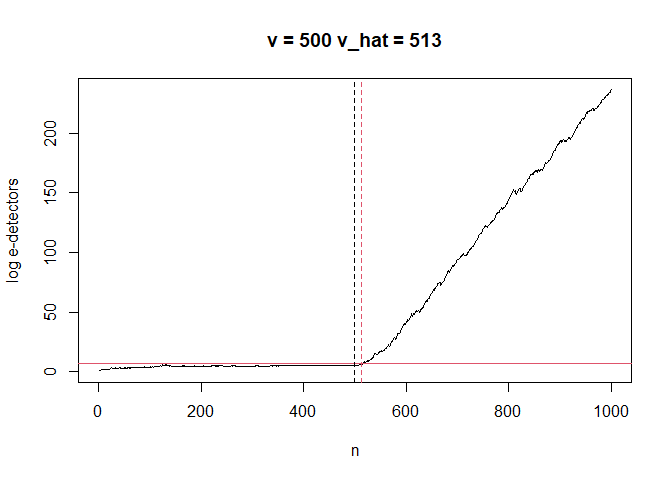
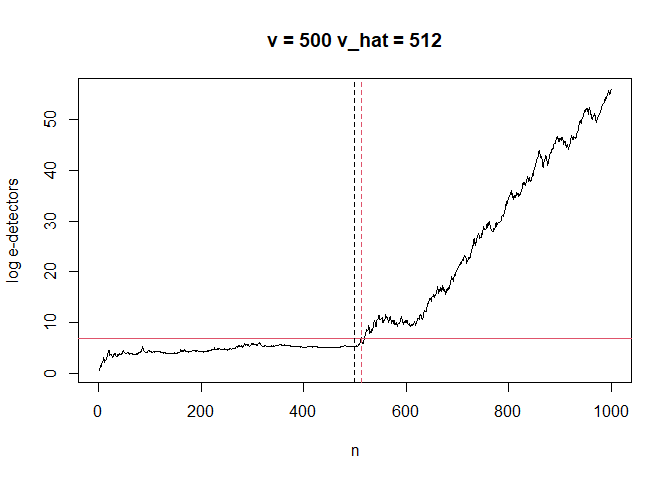
Update Readme example.

diff --git a/README.md b/README.md
@@ -26,8 +26,8 @@ devtools::install_github("shinjaehyeok/EDCP")
 Suppose we have a stream of observations
 *X*<sub>1</sub>, *X*<sub>2</sub>, … ∈ \[0,1\]. Before an unknown
 change-point *ν*, each pre-change observation has mean less than or
-equal to 0.2. But after the change-point *ν*, each post-change
-observation has mean larger than 0.2.
+equal to 0.3. But after the change-point *ν*, each post-change
+observation has mean larger than 0.3.
 
 ``` r
 set.seed(1)
@@ -37,11 +37,13 @@ library(EDCP)
 max_sample <- 1000L
 nu <- 500L
 x_vec <- numeric(max_sample)
-x_vec[1:nu] <- rbeta(nu, 1, 4)
-x_vec[seq(nu+1, max_sample)] <- rbeta((max_sample - nu), 2, 3)
+x_vec[1:nu] <- rbeta(nu, 1.5, 3.5) # Pre-change dist: B(1.5, 3.5)
+x_vec[seq(nu+1, max_sample)] <- rbeta((max_sample - nu), 2, 3) # Post-change dist: B(2,3)
+m_pre <- 0.3
+m_post <- 0.4
 plot(1:max_sample, x_vec, pch=20, 
      xlab = "n", ylab = "X_n", main = "Simulated Data")
-lines(x = c(0,nu), y = c(0.2,0.2), col = 2, lwd = 2)
+lines(x = c(0,nu), y = c(0.3,0.3), col = 2, lwd = 2)
 lines(x = c(nu,max_sample), y = c(0.4,0.4), col = 2, lwd =2 )
 ```
 
@@ -52,7 +54,7 @@ change of the mean happened.
 
 ``` r
 alpha <- 1e-3 # Inverse of target ARL
-m_pre <- 0.2 # Upper bound of mean of pre-change observations
+m_pre <- 0.3 # Upper bound of mean of pre-change observations
 delta_lower <- 0.01  # Guess on the minimum gap between pre- and post-change means
 baseline_bounded <- compute_baseline_bounded(alpha,
                                              m_pre,
@@ -76,7 +78,7 @@ abline(v = mix_SR_stop, col = 2, lty = 2)
 ``` r
 plot(1:max_sample, x_vec, pch=20, 
      xlab = "n", ylab = "X_n", main = "Simulated Data with the detected CP")
-lines(x = c(0,nu), y = c(0.2,0.2), col = 2, lwd = 2)
+lines(x = c(0,nu), y = c(0.3,0.3), col = 2, lwd = 2)
 lines(x = c(nu,max_sample), y = c(0.4,0.4), col = 2, lwd =2 )
 abline(v = nu, col = 1, lty = 2)
 abline(v = mix_SR_stop, col = 2, lty = 2, lwd = 2)
